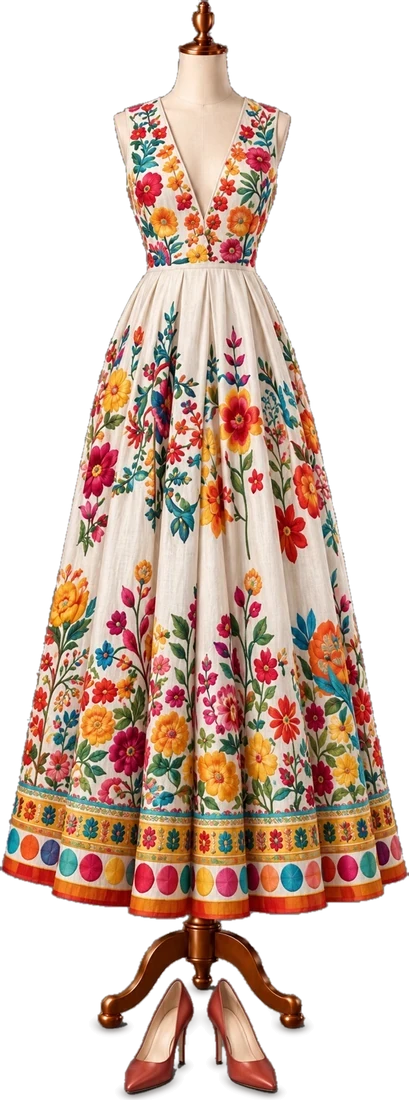
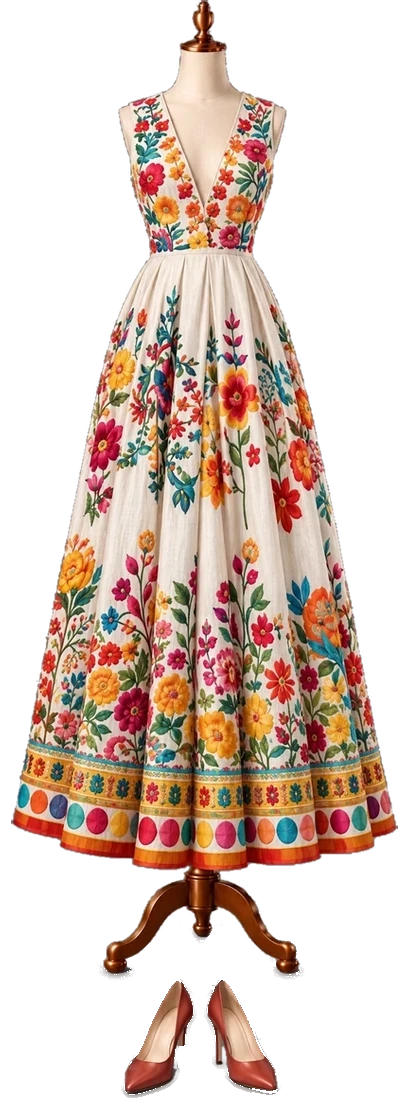
Lady-Puppen: graue Schatten entfernt, alle Ständer auf derselben Höhe wie die grüne Bluse (2.2.5)

diff --git a/index.html b/index.html
@@ -2337,7 +2337,7 @@ html.theme-retreat .lib-arrow{ background:rgba(248,241,229,0.92); color:var(--rt
 
 <script>
 /* Bump on every published update, so it's visible at a glance whether the newest version is loaded. */
-const APP_VERSION = '2.2.4';
+const APP_VERSION = '2.2.5';
 /* Design (since 1.80.0, see the small script in <head>): in "Business" (BIZ) the gold paper icons are swapped for plain line
    icons (img/icons-rl/*.svg) wherever they appear – also in everything drawn later – so the rest of the code stays as it is. */
 // A Lady's Conservatory (1.84.0, named so since 1.86.1; key 'retreat' and RETREAT stay): light, cream and forest green; until its own pictures come it uses those of A Gentleman's Study (with the

diff --git a/CLAUDE.md b/CLAUDE.md
@@ -127,7 +127,7 @@ Der Nutzer ist kein Entwickler. Erkläre Schritte einfach und auf Deutsch.
 - Veröffentlicht über **GitHub Pages** aus diesem Repository (Branch `main`, Ordner `/`):
   https://k9vk58y99f-max.github.io/k9vk58y99f-max.github.io-ewolfe-app-/
 - Ein Commit + Push auf `main` ist die Veröffentlichung; nach 1–2 Minuten ist es live.
-- Bei jeder Änderung `APP_VERSION` erhöhen (aktuell `2.2.4`) und `APP_BUILD` anpassen.
+- Bei jeder Änderung `APP_VERSION` erhöhen (aktuell `2.2.5`) und `APP_BUILD` anpassen.
   Die Version steht unten in der App.
 
 ## Neu seit 1.55.0 (iPad, Wischen, Tagebuch, Sticker, Impulskarten)
@@ -778,6 +778,15 @@ Vor jedem Push: Syntax prüfen und die betroffenen Abläufe testen. Daten des Nu
     Military-Stiefel ×0,9, grüne Budapester-Wedges ×0,81 (Schleifen bleiben ganz). Navy-Wedges (+7 %) und alle anderen (±5 %) unverändert.
     Skript `shoescale.py` (GrabCut trennt Schuh und Mahagoni-Ständer, `WOODBG=1` wenn der Schuh nicht rot ist, `LACES=1` nimmt Schnürsenkel/Schleifen
     mit, Füße darunter per `cv2.inpaint`), Kopie in `~/Desktop/eWolfe-Skripte/`. Übersicht nummeriert: `dresses.py` (ebenda).
+- **2.2.5 (1.11.2026) Lady-Puppen bereinigt und gleich gestellt (vom Nutzer markiert):**
+  - Graue Schatten aus den Fotos entfernt (unter dem Saum der grünen Bluse, Rechteck hinter dem Navy-Ständer, „Pfeil“ unter dem Knauf der
+    Slingbacks, Grau zwischen den Jeansbeinen): `shadows.py` (geringe Sättigung, mittleres Grau, berührt Transparenz, nur y 600–958, nie auf
+    den Schuhen). Die vier Feiertagskleider bewusst nicht (Seladon/Salbei-Stoffe sind selbst grau-grün).
+  - **Vorbild grüne Bluse:** Kugelfüße des Ständers bei y ≈ 965 von 1100, Schuhe davor bis zum Bildrand. Navy (Füße 1015), Burgunder (1050),
+    Weiß bestickt (1020), Matrosen-Jeans (1010) standen tiefer (größere Puppe): Figur und Ständer ×0,951/0,919/0,946/0,955 um die Mitte oben
+    verkleinert, Schuhe bleiben unverändert an ihrem Platz (`align.py`/`align2.py`: Schuhe per GrabCut in engen Rahmen je Schuh, Ständerfüße/Beine/Knauf
+    als feste „kein Schuh“-Flecken; `BOXONLY=1` wenn Schuh und Ständer dieselbe Farbe haben; alte Umrisse und Schattenreste werden entfernt).
+    Skripte in `~/Desktop/eWolfe-Skripte/`. Neue Kleiderbilder künftig gleich so prüfen (Füße auf 965, Schuhe davor, keine grauen Schatten).
 - **Noch offen (Datenschutz):** Speicher-Erinnerung (80 %/90 %), verschlüsseltes Backup + monatliche Erinnerung, IndexedDB statt localStorage, Fotos einzeln
   im Supabase-Speicher, Konto in der App löschen; Platzhalter der Datenschutzerklärung füllen und rechtlich prüfen lassen; AVV und SMTP bei Supabase.
 
